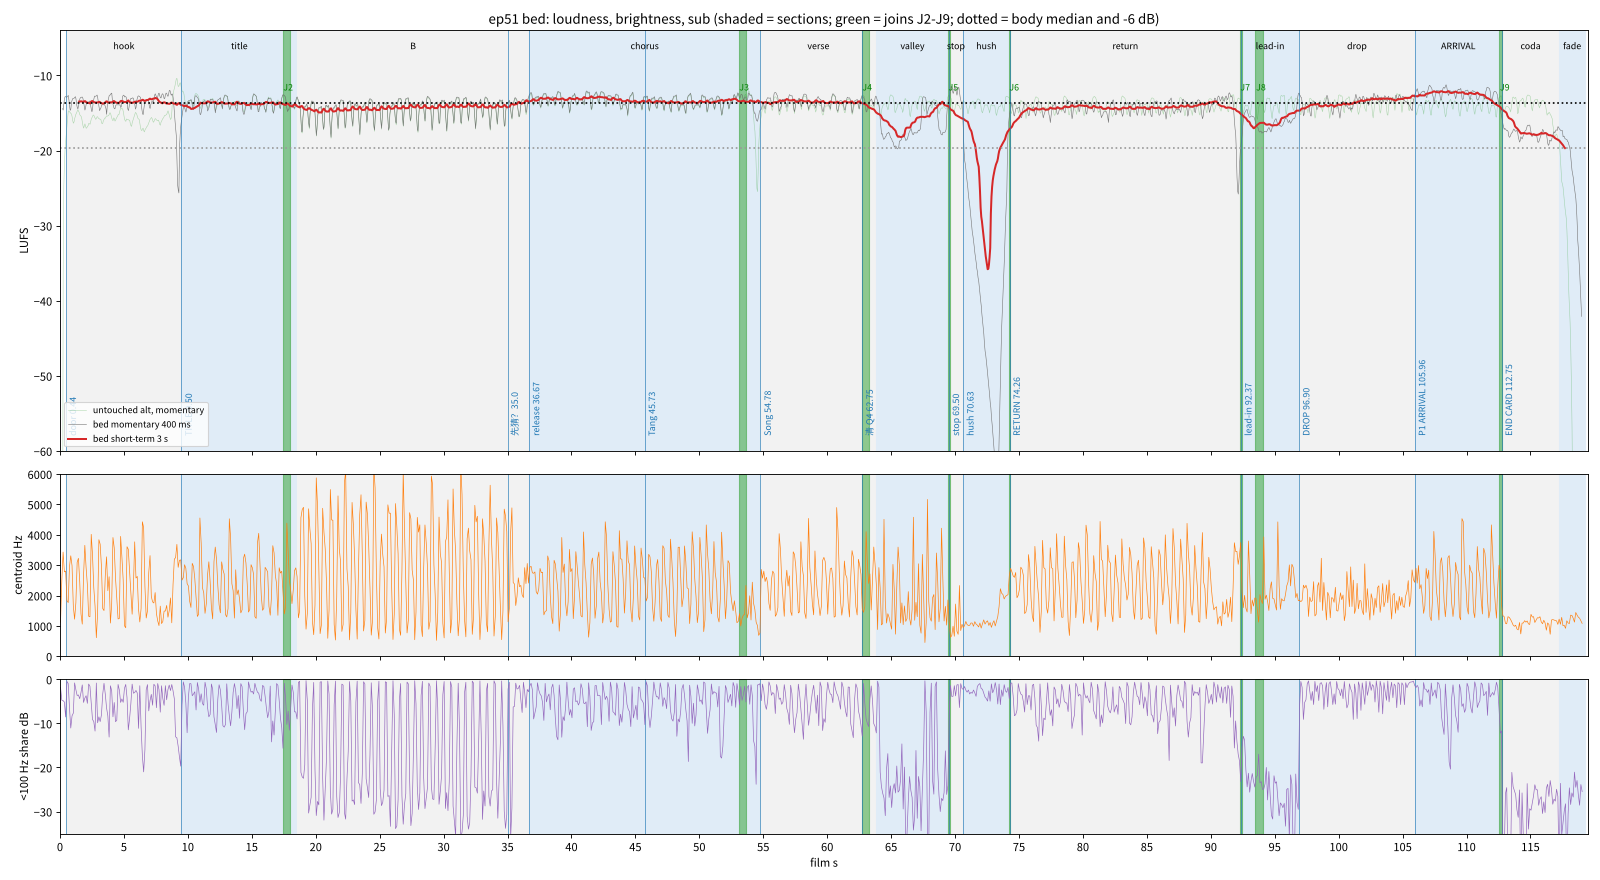
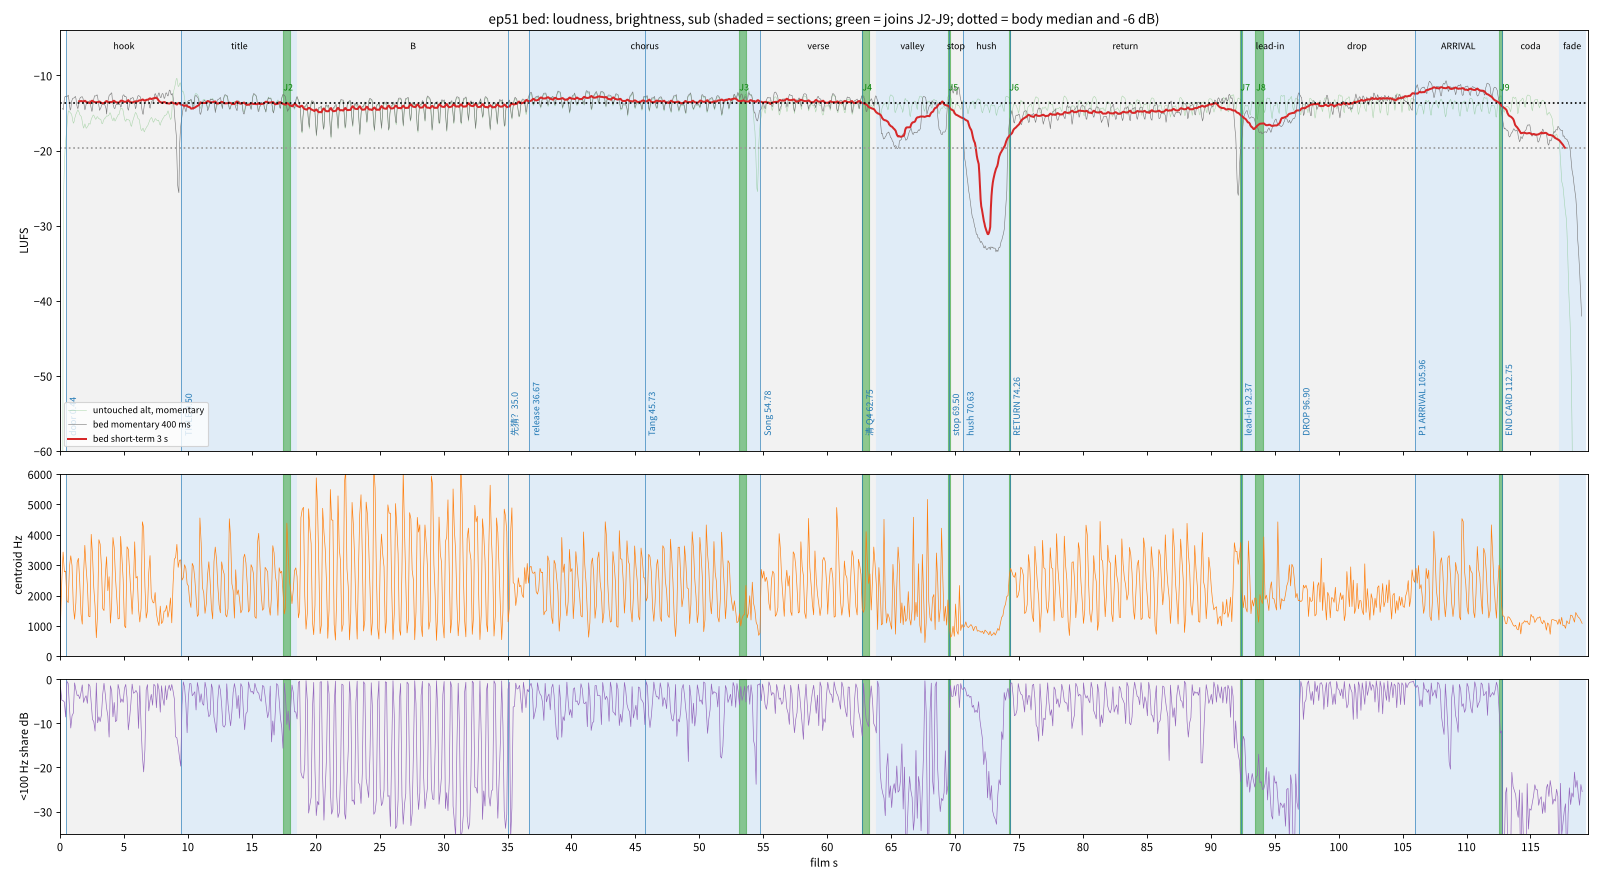
ep51: hush floor from the song's own intro (no near-silence > 1 s)
Claude-Session: https://claude.ai/code/session_01VNXSxptP33VBaAbbwyHT1T

diff --git a/episodes/51-bing/music/build51.py b/episodes/51-bing/music/build51.py
@@ -39,8 +39,14 @@ Film layout (n = grid-A bar, m = grid-B bar; every span is the song playing stra
   S4  62.7- 69.50  143.9-150.6         63b3-b4, valley 64-65, 66b1-b2 (F; hit at DA(28) 63.84 = Q4 chisels)
   J5  69.500       66b2 -> stop bar 79 under its first hit (E chord = the E of bar 66's beats 3-4)
   S5  69.50- 70.7  179.44-180.66       stop bar 79: four eighth-note hits on DA(30) beats 3-4, silence from 70.63
-  HUSH 70.63-74.26                     stop-bar ring (reverb of the hits) dies away, near silence,
+  HUSH 70.63-74.26                     stop-bar ring (reverb of the hits) dies away into a held-breath FLOOR,
                                        reversed-reverb inhale of the bar-16 downbeat into DB(0)
+                                       FLOOR (sound r1 addendum, QA Q4 "hush too long"): a spectral freeze of the
+                                       song's own intro Am (bars 1 and 3, beats 1-2, harmonic part only; reads as an
+                                       A-E open fifth, shared by the E stop chord and the F return), dark (90 Hz-2.5 kHz),
+                                       half-wide stereo, faded in under the ring 70.30-71.10, held at FLOOR_LUFS,
+                                       faded out over the last beat into DB(0). Without it the bed sat below
+                                       -35 LUFS-M for 2.2 s (owner: a silence of ~1 s at most); with it, 0 s.
   S6  74.26- 92.37 36.80- 54.91        chorus-1 16-23 (return on the chorus downbeat at DB(0), deep break 91.80-92.37)
   J7  92.372       break -> lead-in    23b4 break -> bar 80 first note (from the song's own silence), cut on the bar line
   S7  92.37- 93.7  182.27-183.6        lead-in 80 b1-b2
@@ -75,7 +81,10 @@ RISE_DB = 1.5              # arrival lift, bars 88-90 (DB14..DB17)
 RING_DB = -12.0            # stop-bar ring into the hush
 RING_TAU = 0.55            # ring decay (s)
 INHALE_DB = -10.0          # reversed-reverb inhale into DB(0)
-INHALE_LEN = 1.0           # s
+INHALE_LEN = 1.4           # s (r1 addendum: 1.0 -> 1.4, the inhale starts ~72.86 so the breath is drawn earlier)
+FLOOR_LUFS = -33.0         # held-breath floor under the hush: its integrated loudness in the final bed (None = off)
+FLOOR_BARS = (1, 3)        # song part-1 bars whose beats 1-2 (intro Am, no drums) are frozen
+FLOOR_ENV = (70.30, 71.10) # fade-in under the stop-bar ring; fade-out = the last beat before DB(0)
 RELEASE_SWELL_DB = -15.0   # reversed-reverb swell into the chorus downbeat DA(16) (None = off)
 FADE = (117.27, 119.10)    # coda fade: from the bar-107 Bbm (song 243.40) to silence before the film ends
 LUFS_TARGET = -14.0
@@ -273,6 +282,41 @@ g = 10 ** (gd / 20)
 w = ramp(*FADE); g = g * np.cos(w * np.pi / 2) ** 1.5
 g[t >= FADE[1]] = 0.0
 mix *= g[:, None].astype(np.float32)
+
+
+import pyloudnorm as _pyln
+meter_pre = _pyln.Meter(SR)
+
+# ---- (4) the held-breath floor under the hush (placed after the gain rides so its level is exactly FLOOR_LUFS)
+def spectral_freeze(bars, dur, seed, nfft=8192, hop=1024, jitter=0.35):
+    """Median magnitude spectrum of the harmonic part of `bars` (beats 1-2 each), resynthesised for `dur` s with
+    running phase + a small random phase jitter: a steady, slightly shimmering pad made only of the song itself."""
+    import librosa
+    mags = []
+    for k in bars:
+        x = song_cut(B1(k) + 0.03, B1(k) + 2 * P - 0.03).mean(1).astype(np.float64)
+        mags.append(np.abs(librosa.stft(librosa.effects.harmonic(x, margin=2.0), n_fft=nfft, hop_length=hop)))
+    mg = np.median(np.concatenate(mags, 1), 1)
+    rng = np.random.default_rng(seed); w = 2 * np.pi * np.arange(nfft // 2 + 1) * hop / nfft
+    ph = rng.uniform(0, 2 * np.pi, len(mg)); nfr = int(dur * SR / hop) + 4; Z = np.empty((len(mg), nfr), complex)
+    for i in range(nfr):
+        ph = ph + w + rng.normal(0, jitter, len(mg)); Z[:, i] = mg * np.exp(1j * ph)
+    return librosa.istft(Z, hop_length=hop, n_fft=nfft)[:S(dur)]
+
+
+if FLOOR_LUFS is not None:
+    f0, f1 = FLOOR_ENV[0], DB(0)
+    a_, b_ = spectral_freeze(FLOOR_BARS, f1 - f0, 1), spectral_freeze(FLOOR_BARS, f1 - f0, 2)
+    pad = np.stack([a_, 0.6 * a_ + 0.8 * b_], 1)                                  # L/R r ~0.6: wide but mono-safe
+    pad = sosfilt(butter(2, 2500, 'low', fs=SR, output='sos'), pad, axis=0)
+    pad = sosfilt(butter(2, 90, 'high', fs=SR, output='sos'), pad, axis=0)
+    gain_now = LUFS_TARGET - meter_pre.integrated_loudness(mix.astype(np.float64))  # what normalise() will apply
+    pad *= 10 ** ((FLOOR_LUFS - gain_now - meter_pre.integrated_loudness(pad)) / 20)
+    tp_ = f0 + np.arange(len(pad)) / SR
+    env_ = np.sin(np.clip((tp_ - f0) / (FLOOR_ENV[1] - f0), 0, 1) * np.pi / 2) * np.cos(np.clip((tp_ - (f1 - P)) / P, 0, 1) * np.pi / 2)
+    place((pad * env_[:, None]).astype(np.float32), f0, 0.0)
+    fx.append(dict(film=[round(f0, 3), round(f1, 3)], what='held-breath floor: spectral freeze of the intro Am (bars %s, beats 1-2), 90 Hz-2.5 kHz' % (FLOOR_BARS,),
+                   lufs=FLOOR_LUFS))
 
 # ---- loudness
 import pyloudnorm as pyln

diff --git a/episodes/51-bing/music/notes_sound_r1.md b/episodes/51-bing/music/notes_sound_r1.md
@@ -134,3 +134,52 @@ Method: frame-difference scan of rough_v1.mp4 plus contact sheets around every c
 - **69.50 → 74.26, the hush as a held breath.** The drips now count down in key. To make the return lift more, end the last drip's tail on the inhale. One option is a 1-beat pre-delay so the tail is still blooming at 74.26; the "silence" then ends inside a sound and doesn't cut to the chorus.
 - **96.90, the drop.** The block "sets" on the frame, which is right. Don't add an effect here. Let the modulation be the event, and keep the picture still for the 2 frames before it (a picture pause before the hit, owner row 112).
 - **112.75, the end-card fall.** The seal is now on F over the V→i fall. Once the picture contact moves to f3383, the stamp, the downbeat and the dim all become one gesture. That is the cleanest "full stop" the film can have.
+
+## Addendum r1b: hush floor (QA Q4 "hush too long") and the coordinator's lift
+
+**Context.** The coordinator applied my suggested lift: `BUILD_DB −2.5`, `RISE_DB 1.5`. That pre-change bed is `ep51_bed_r0.wav` in the scratchpad.
+
+**Problem.** In the hush the bed sat below −35 LUFS-M for **2.2 s** (71.4–73.6) and bottomed out at −65 at 73.30. The drips only covered it in blips. Between drips the mix fell to −48 (`hushcurve_mix.png`, `mix_before`). On a phone that reads as broken audio, and the owner's limit is about 1 s of silence.
+
+**Fix in `build51.py`.** Everything is documented in the docstring HUSH row and the tunables block. The stop hits (69.50–70.51), the five drips and the DB(0) return are unchanged.
+
+- **New `(4) held-breath floor`.** `spectral_freeze()` takes the median magnitude spectrum of the harmonic part (HPSS) of the song's own intro Am: bars 1 and 3, beats 1–2, which have no drums. It resynthesises that spectrum as a steady pad with running phase and a 0.35 rad jitter, so the pad is made of the song itself and adds no new instrument.
+  - It reads as an **A–E open fifth**. Chroma over 71.3–73.5 is A 1.00, E 0.97, B 0.51.
+  - E is shared with the E stop chord and A with the F return, and the drips (E6, C6) sit inside it.
+  - Shaping:
+    - band-limited to 90 Hz–2.5 kHz, so the drips' 1–8 kHz plinks sit on top;
+    - L/R r ≈ 0.6;
+    - fades in under the ring over 70.30–71.10 (`FLOOR_ENV`);
+    - holds at `FLOOR_LUFS = −33`;
+    - cos-fades over the last beat into DB(0).
+  - It is placed after the gain rides, so its level is exact.
+  - The 100 ms RMS varies by 3.9 dB over 72.0–73.5: steady, no pumping.
+- **Inhale.** `INHALE_LEN` 1.0 → 1.4 s, so the inhale starts at 72.86 and the breath is drawn earlier.
+- **Drips.** In `sfx_cues.json`, +1.5 dB each (now −18.5 → −14.5 dB), so they stay clear of the floor. Band SNR is 31–57 dB at 6–8 kHz, momentary loudness 2–4 LU over the floor, peak −10.6 dBFS against body peaks −4.4.
+
+**Measured, hush window 70.6–74.26 (`hushcurve_mix.png`):**
+
+| | below −35 LUFS-M | longest run below −35 | lowest |
+|---|---|---|---|
+| bed before | 2.20 s | 2.20 s | −65.1 at 73.30 |
+| bed after | **0.00 s** | 0 | −33.5 at 73.20 |
+| mix before | 0.63 s (gaps to −48) | 0.19 s | −48.5 |
+| mix after | **0.00 s** | 0 | −32.8 |
+
+The floor sits about 19 LU under the body (−14), which still reads as a hush, but as held breath rather than a dropout.
+
+**Checks after the rebuild:**
+- Outside 70.2–74.3 the new bed matches the pre-floor bed to within −91.5 dB (identical).
+- `measure51.py` re-run:
+  - grid within 1.0 ms at 48 downbeats;
+  - no stretch more than 6 dB under the body for 3 s (`sag` list empty);
+  - mono fold −0.01 dB.
+  - `music_map_ep51.json`, `_measure.json` and `ep51_bed_curves.png` are refreshed.
+- Bed: −14.00 LUFS, −2.32 dBTP, no limiting.
+- Mix (`mix51.py`): −14.0 LUFS, **−2.14 dBTP**, 22 cues.
+- Hush L/R r = 0.38; the mono fold costs 1.6 dB of the hush's wide tails and pad, but the dry drips are centred.
+
+**Files.**
+- Preview: `/tmp/claude-0/-home-claude/bf206d1e-1152-5595-9b84-b15be6e5a777/scratchpad/snd51/rough_v1_sound_r1b.mp4`.
+- Plots: `hushcurve_mix.png` and `hush_r1b.png`, same folder.
+- Pre-floor bed and mix, for A/B: `ep51_bed_lift_prefloor.wav` and `ep51_mix_lift_prefloor.wav`, same folder.
